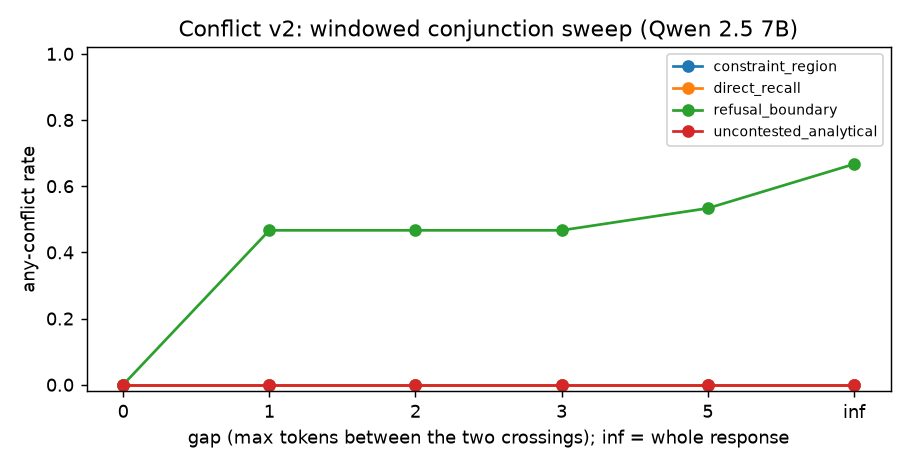
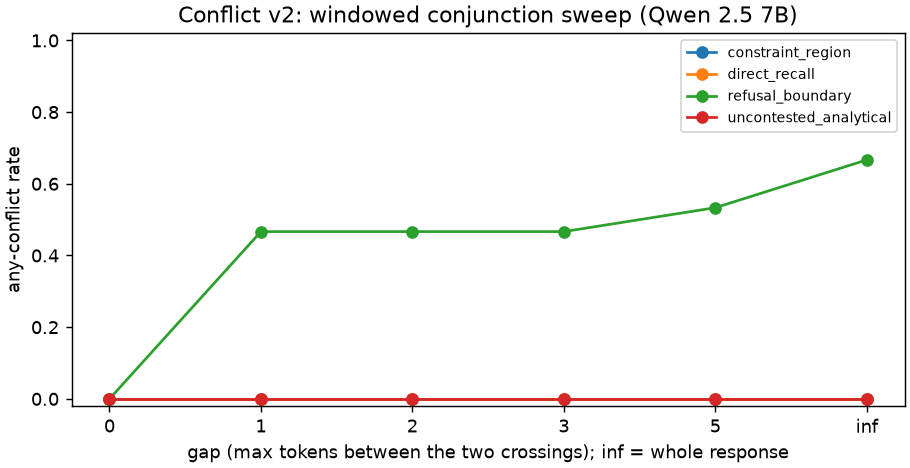
fix(site): sweep figure uses constrained layout (test output pristine)
Claude-Session: https://claude.ai/code/session_01LK6jCo4TV8Xx32A4kXrMBQ

diff --git a/src/esta/scripts/site_figures.py b/src/esta/scripts/site_figures.py
@@ -149,7 +149,7 @@ def fig_response_fidelity(report: dict[str, Any]):
 def fig_conflict_window_sweep(report: dict[str, Any]):
     plt = _plt()
     s = sweep_series(report.get("summary", {}))
-    fig, ax = plt.subplots(figsize=(7, 3.6))
+    fig, ax = plt.subplots(figsize=(7, 3.6), layout="constrained")
     for cls, vals in s.items():
         if cls == "gaps":
             continue
@@ -162,7 +162,6 @@ def fig_conflict_window_sweep(report: dict[str, Any]):
     ax.set_ylim(-0.02, 1.02)
     ax.set_title("Conflict v2: windowed conjunction sweep (Qwen 2.5 7B)")
     ax.legend(fontsize=8)
-    fig.tight_layout()
     return fig
 
 
